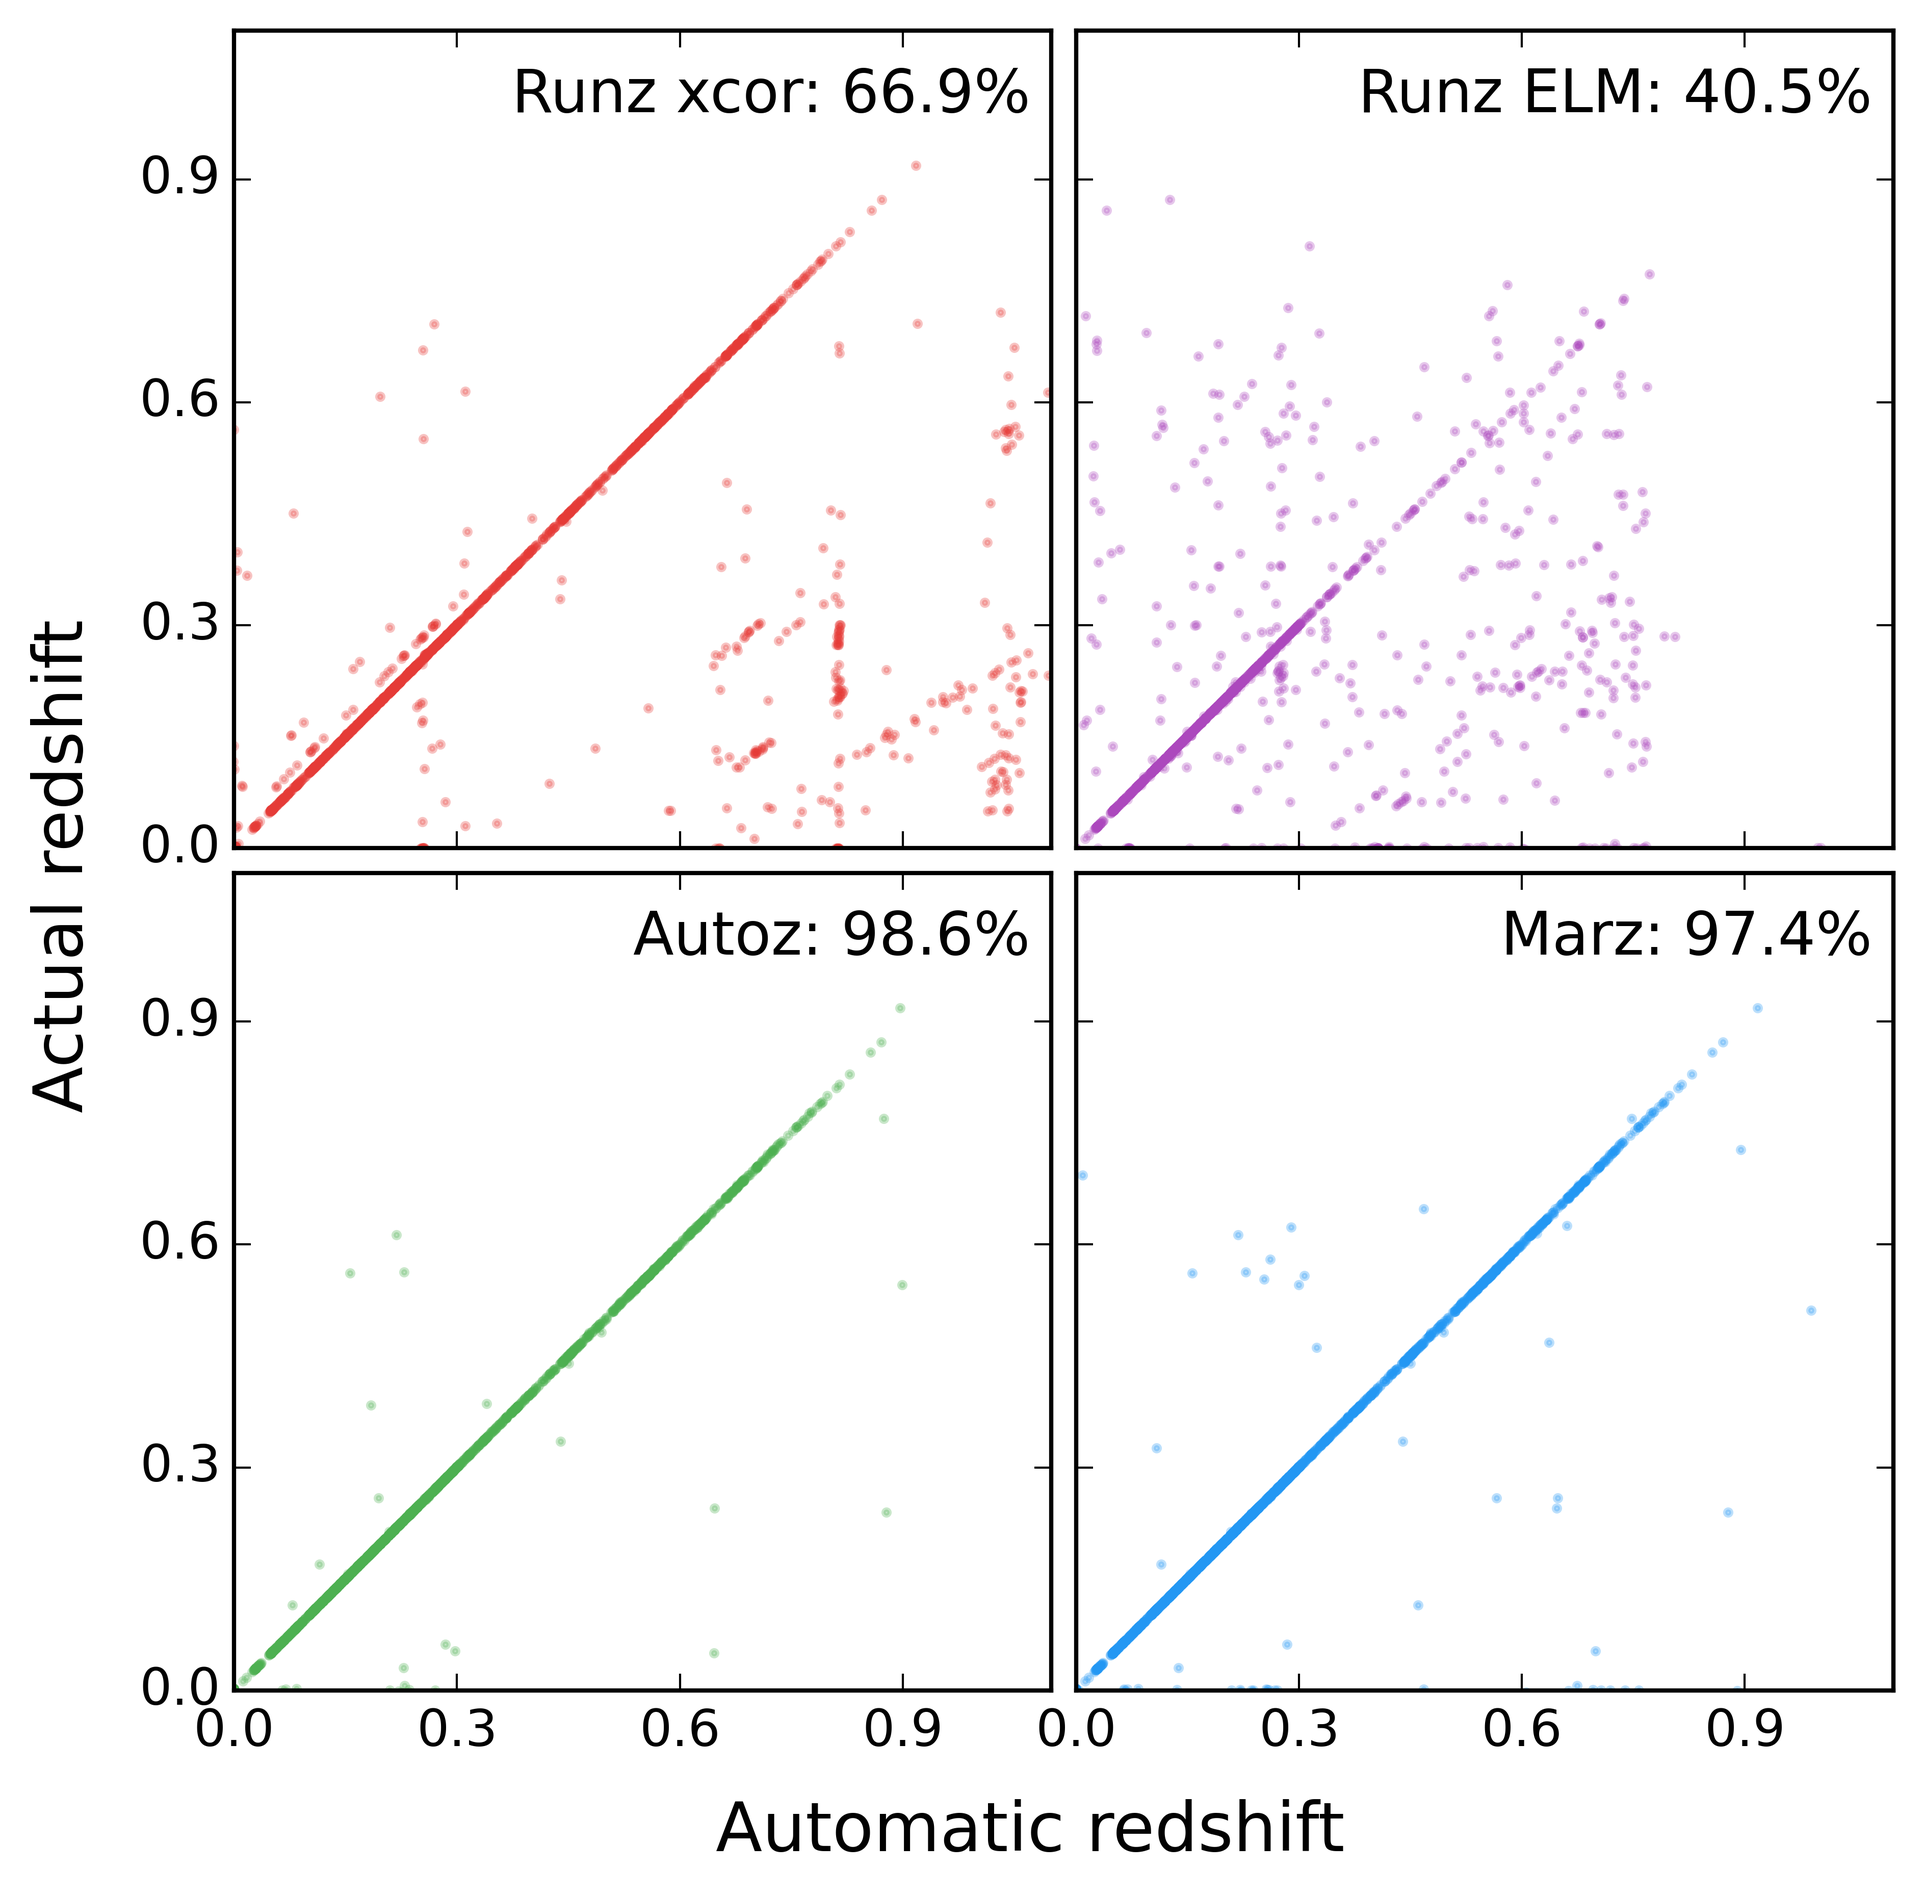
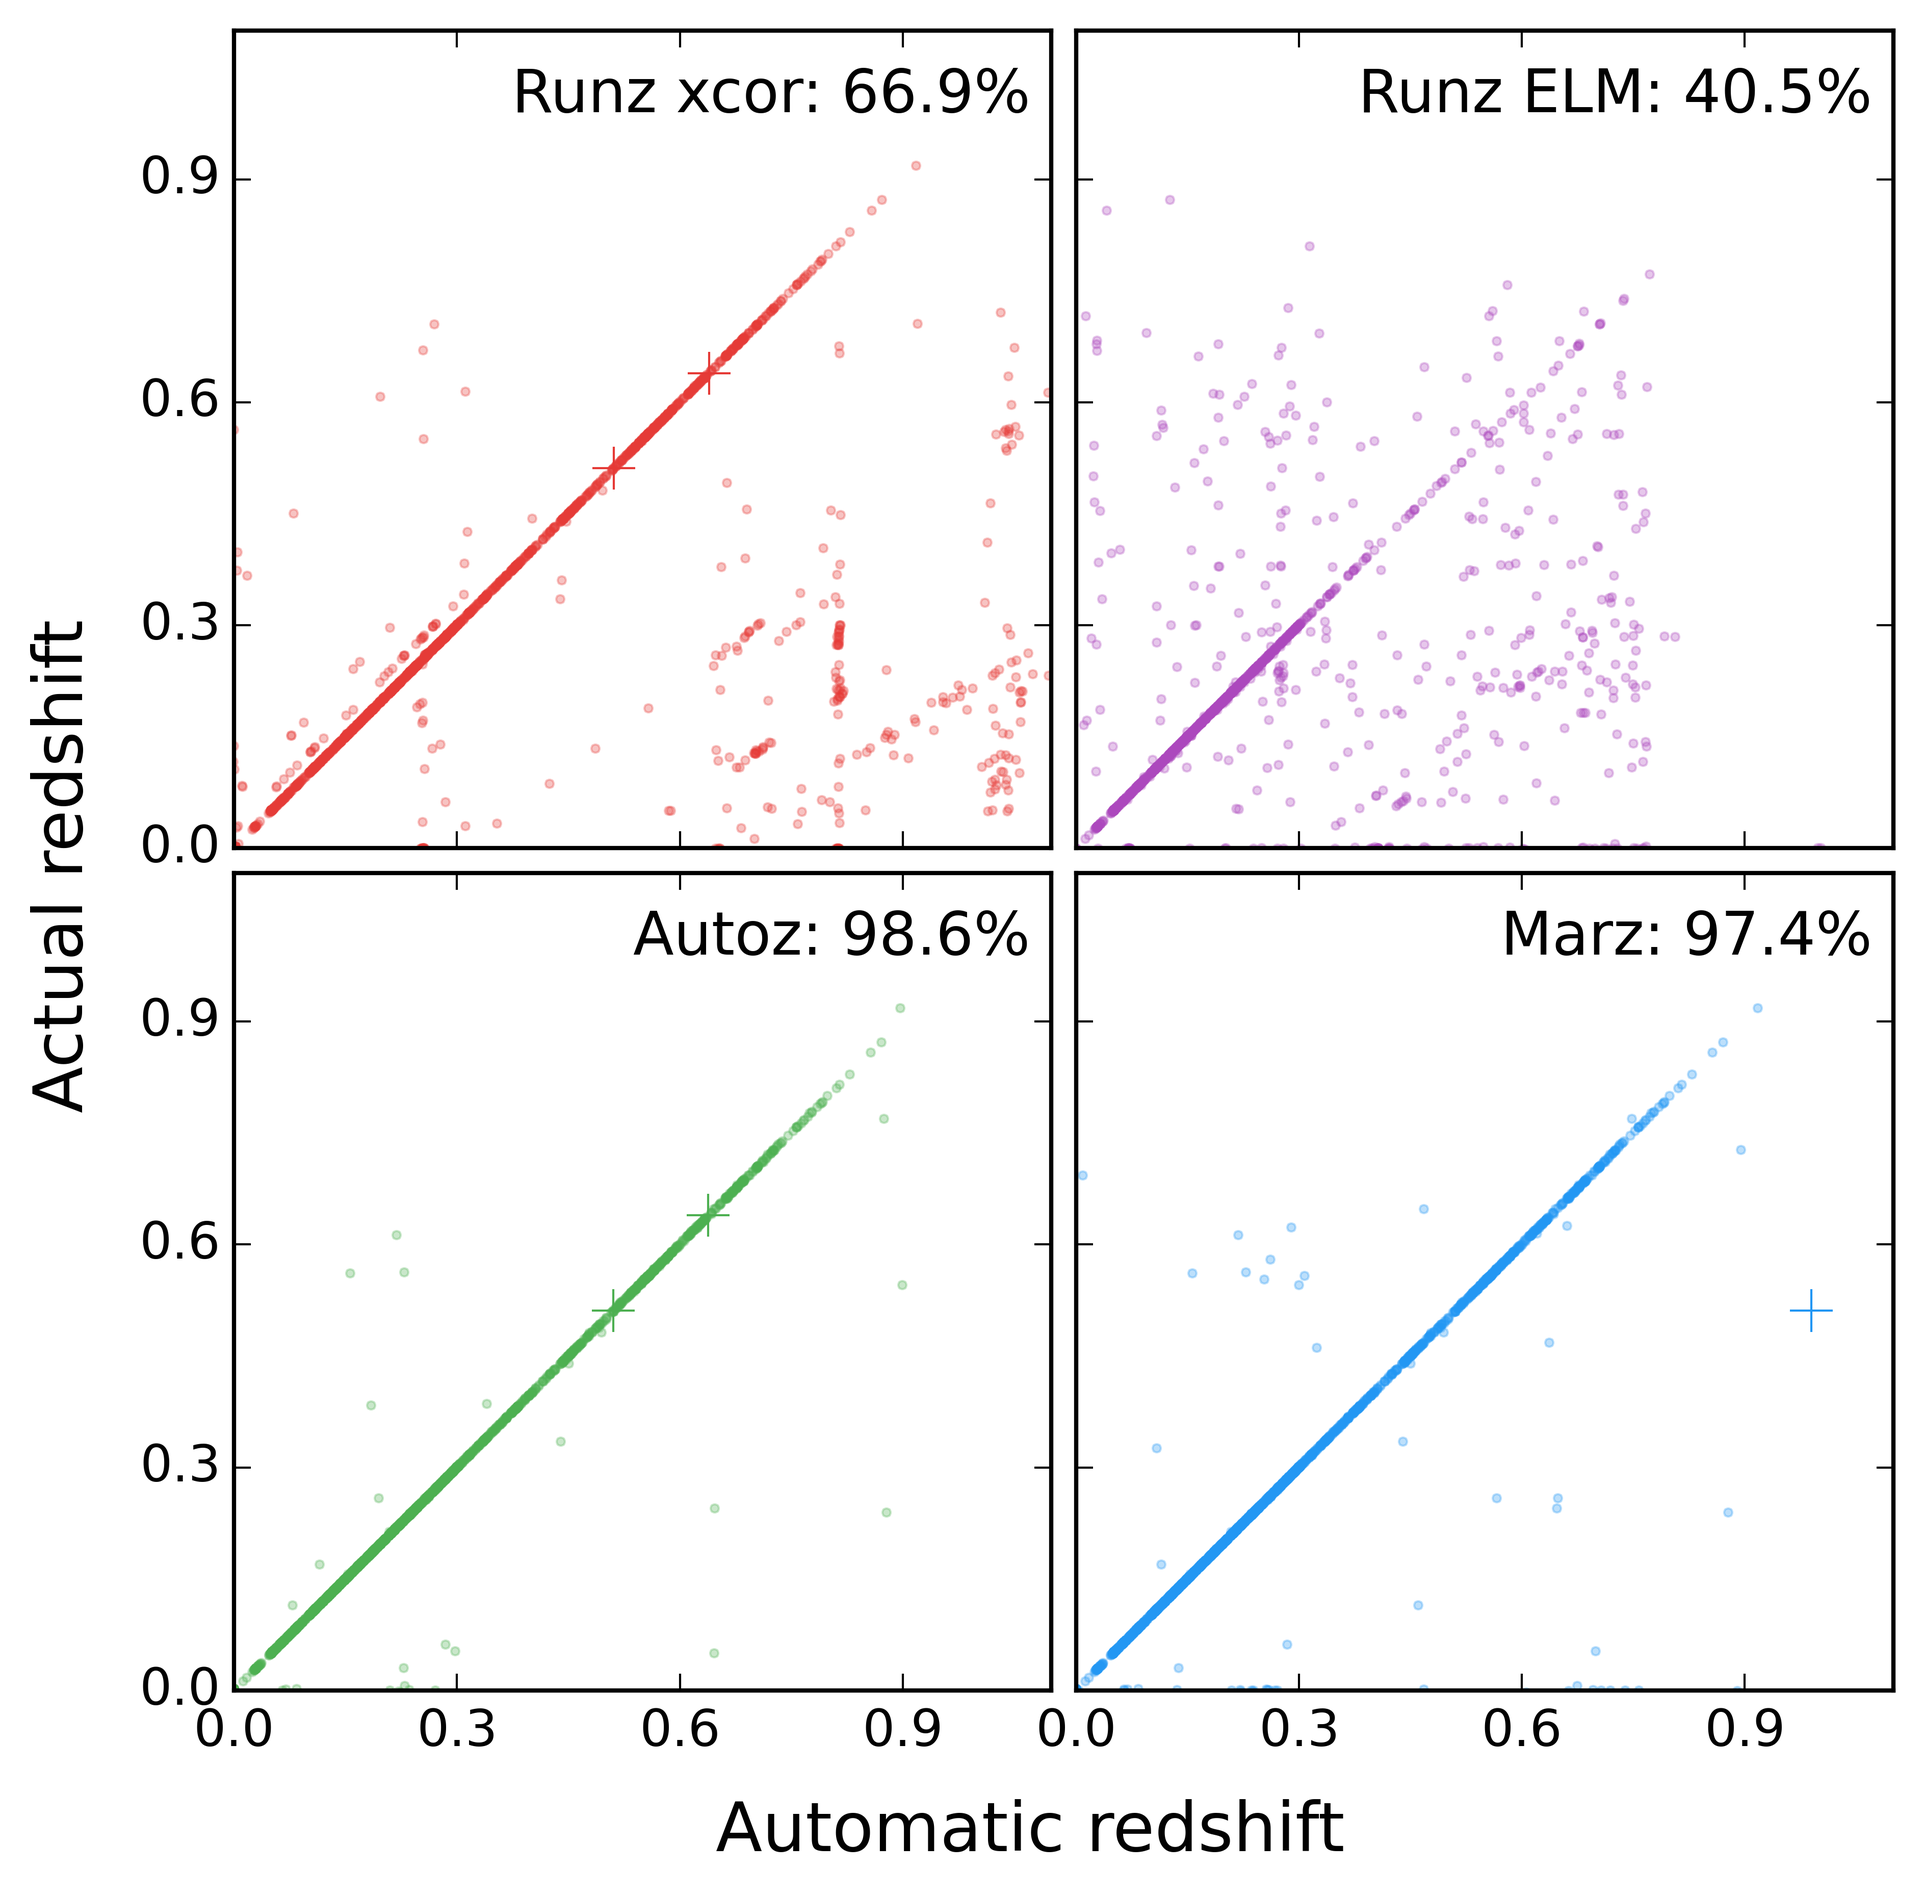
Update make quasars diff

Changed region(s): [[0.775, 0.3432, 0.868, 0.3744], [0.496, 0.3432, 0.527, 0.4368]]

diff --git a/Analysis/2df/2dfAnalysis.py b/Analysis/2df/2dfAnalysis.py
@@ -68,7 +68,7 @@ def loadData():
                     idd = i[marzID].strip()
                     if objects.get(idd):
                         objects[idd]['MZ'] = float(i[marzZ])
-                        objects[idd]['MTID'] = i[marzTID].strip()
+                        objects[idd]['MTID'] = int(i[marzTID].strip())
                         objects[idd]['TYPE'] = i[marzT].strip()
                     else:
                         objects[idd] = {'MZ': float(i[marzZ]), 'MTID': i[marzTID].strip(), 'TYPE': i[marzT].strip()}
@@ -78,7 +78,7 @@ def loadData():
     for item in objects:
         i = objects[item]
         if i.get('MZ') is not None and i.get('AZ') is not None and i.get('RZ') is not None and i.get('RXZ') is not None:
-            results.append([i.get('QOP'), i.get('RZ'), i.get('MZ'), i.get('AZ'), i.get('RXZ'), i.get('REZ')])
+            results.append([i.get('QOP'), i.get('RZ'), i.get('MZ'), i.get('AZ'), i.get('RXZ'), i.get('REZ'), i.get("MTID")])
             
     return np.array(results)
     
@@ -88,6 +88,8 @@ def loadData():
     
 def plotQop4Comparison(res):
     qop4 = res[res[:,0] >= 4]
+    qSelection = qop4[:,-1] == 12
+    qInvSelection = qSelection == False
     
     thresh = 0.01
     
@@ -113,11 +115,15 @@ def plotQop4Comparison(res):
     ax2 = fig.add_subplot(gs[1,0])
     ax3 = fig.add_subplot(gs[1,1])
     
-    opts = {'alpha':0.3, 's':2}
-    ax0.scatter(qop4[:,4], qop4[:,1], label="Runz xcor: %0.1f%%" % runzXNum, color='#E53935', **opts)
-    ax1.scatter(qop4[:,5], qop4[:,1], label="Runz ELM: %0.1f%%" % runzENum, color='#AB47BC', **opts)
-    ax2.scatter(qop4[:,3], qop4[:,1], label="Autoz: %0.1f%%" % autozNum, color='#4CAF50', **opts)
-    ax3.scatter(qop4[:,2], qop4[:,1], label="Marz: %0.1f%%" % marzNum, color='#2196F3', **opts)
+    opts = {'alpha':0.3}
+    ax0.plot(qop4[:,4][qInvSelection], qop4[:,1][qInvSelection], '.', markersize=4, label="Runz xcor: %0.1f%%" % runzXNum, color='#E53935', **opts)
+    ax0.plot(qop4[:,4][qSelection], qop4[:,1][qSelection], '+', markersize=10, label="Runz xcor: %0.1f%%" % runzXNum, color='#E53935')
+    ax1.plot(qop4[:,5][qInvSelection], qop4[:,1][qInvSelection], '.', markersize=4, label="Runz ELM: %0.1f%%" % runzENum, color='#AB47BC', **opts)
+    ax1.plot(qop4[:,5][qSelection], qop4[:,1][qSelection], '+', markersize=10, label="Runz ELM: %0.1f%%" % runzENum, color='#AB47BC')
+    ax2.plot(qop4[:,3][qInvSelection], qop4[:,1][qInvSelection], '.', markersize=4, label="Autoz: %0.1f%%" % autozNum, color='#4CAF50', **opts)
+    ax2.plot(qop4[:,3][qSelection], qop4[:,1][qSelection], '+', markersize=10, label="Autoz: %0.1f%%" % autozNum, color='#4CAF50')
+    ax3.plot(qop4[:,2][qInvSelection], qop4[:,1][qInvSelection], '.', markersize=4, label="Marz: %0.1f%%" % marzNum, color='#2196F3', **opts)
+    ax3.plot(qop4[:,2][qSelection], qop4[:,1][qSelection], '+', markersize=10, label="Marz: %0.1f%%" % marzNum, color='#2196F3')
     
     xlims = [0, 1.1]
     ylims = [0, 1.1]
@@ -165,7 +171,7 @@ def plotQop4Comparison(res):
     fig.savefig("2dfComp.pdf", bbox_inches='tight', transparent=True)
 
     
-res = loadData()
+#res = loadData()
 plotQop4Comparison(res)
 
 

diff --git a/Analysis/run009/run009Analysis.py b/Analysis/run009/run009Analysis.py
@@ -115,7 +115,8 @@ def plotOffset(res):
     
 def plotQop4Comparison(res):
     qop4 = res[res[:,0] >= 4]
-    
+    qSelection = qop4[:,-1] == 12
+    qInvSelection = qSelection == False
     thresh = 0.01
     
     autozNum = 100.0 *  (np.abs(qop4[:,3] - qop4[:,1]) < thresh).sum() / qop4[:,1].size
@@ -140,11 +141,18 @@ def plotQop4Comparison(res):
     ax2 = fig.add_subplot(gs[1,0])
     ax3 = fig.add_subplot(gs[1,1])
     
-    opts = {'alpha':0.3, 's':2}
-    ax0.scatter(qop4[:,4], qop4[:,1], label="Runz xcor: %0.1f%%" % runzXNum, color='#E53935', **opts)
-    ax1.scatter(qop4[:,5], qop4[:,1], label="Runz ELM: %0.1f%%" % runzENum, color='#AB47BC', **opts)
-    ax2.scatter(qop4[:,3], qop4[:,1], label="Autoz: %0.1f%%" % autozNum, color='#4CAF50', **opts)
-    ax3.scatter(qop4[:,2], qop4[:,1], label="Marz: %0.1f%%" % marzNum, color='#2196F3', **opts)
+    opts = {'alpha':0.3}
+    opts2 = {'alpha': 0.6}
+    
+    ax0.plot(qop4[:,4][qInvSelection], qop4[:,1][qInvSelection], '.', markersize=4, label="Runz xcor: %0.1f%%" % runzXNum, color='#E53935', **opts)
+    ax0.plot(qop4[:,4][qSelection], qop4[:,1][qSelection], '+', markersize=7, label="Runz xcor: %0.1f%%" % runzXNum, color='#E53935',  **opts2)
+    ax1.plot(qop4[:,5][qInvSelection], qop4[:,1][qInvSelection], '.', markersize=4, label="Runz ELM: %0.1f%%" % runzENum, color='#AB47BC', **opts)
+    ax1.plot(qop4[:,5][qSelection], qop4[:,1][qSelection], '+', markersize=7, label="Runz ELM: %0.1f%%" % runzENum, color='#AB47BC',  **opts2)
+    ax2.plot(qop4[:,3][qInvSelection], qop4[:,1][qInvSelection], '.', markersize=4, label="Autoz: %0.1f%%" % autozNum, color='#4CAF50', **opts)
+    ax2.plot(qop4[:,3][qSelection], qop4[:,1][qSelection], '+', markersize=7, label="Autoz: %0.1f%%" % autozNum, color='#4CAF50',  **opts2)
+    ax3.plot(qop4[:,2][qInvSelection], qop4[:,1][qInvSelection], '.', markersize=4, label="Marz: %0.1f%%" % marzNum, color='#2196F3', **opts)
+    ax3.plot(qop4[:,2][qSelection], qop4[:,1][qSelection], '+', markersize=7, label="Marz: %0.1f%%" % marzNum, color='#2196F3',  **opts2)
+
     
     xlims = [0, 5]
     ylims = [0, 5]
@@ -187,12 +195,12 @@ def plotQop4Comparison(res):
     figtext(0.35,0.05,"Automatic redshift",fontdict={'fontsize':16})
     figtext(0.03,0.6,"Actual redshift", fontdict={'fontsize':16},rotation=90)
     
-    #fig.savefig("run009Comp.png", bbox_inches='tight', dpi=600, transparent=True)
-    #fig.savefig("run009Comp.pdf", bbox_inches='tight', dpi=1200, transparent=True)
+    fig.savefig("run009Comp.png", bbox_inches='tight', dpi=600, transparent=True)
+    fig.savefig("run009Comp.pdf", bbox_inches='tight', dpi=1200, transparent=True)
 
     
-res = loadData()
-#plotQop4Comparison(res)
-plotOffset(res)
+#res = loadData()
+plotQop4Comparison(res)
+#plotOffset(res)
 
 
